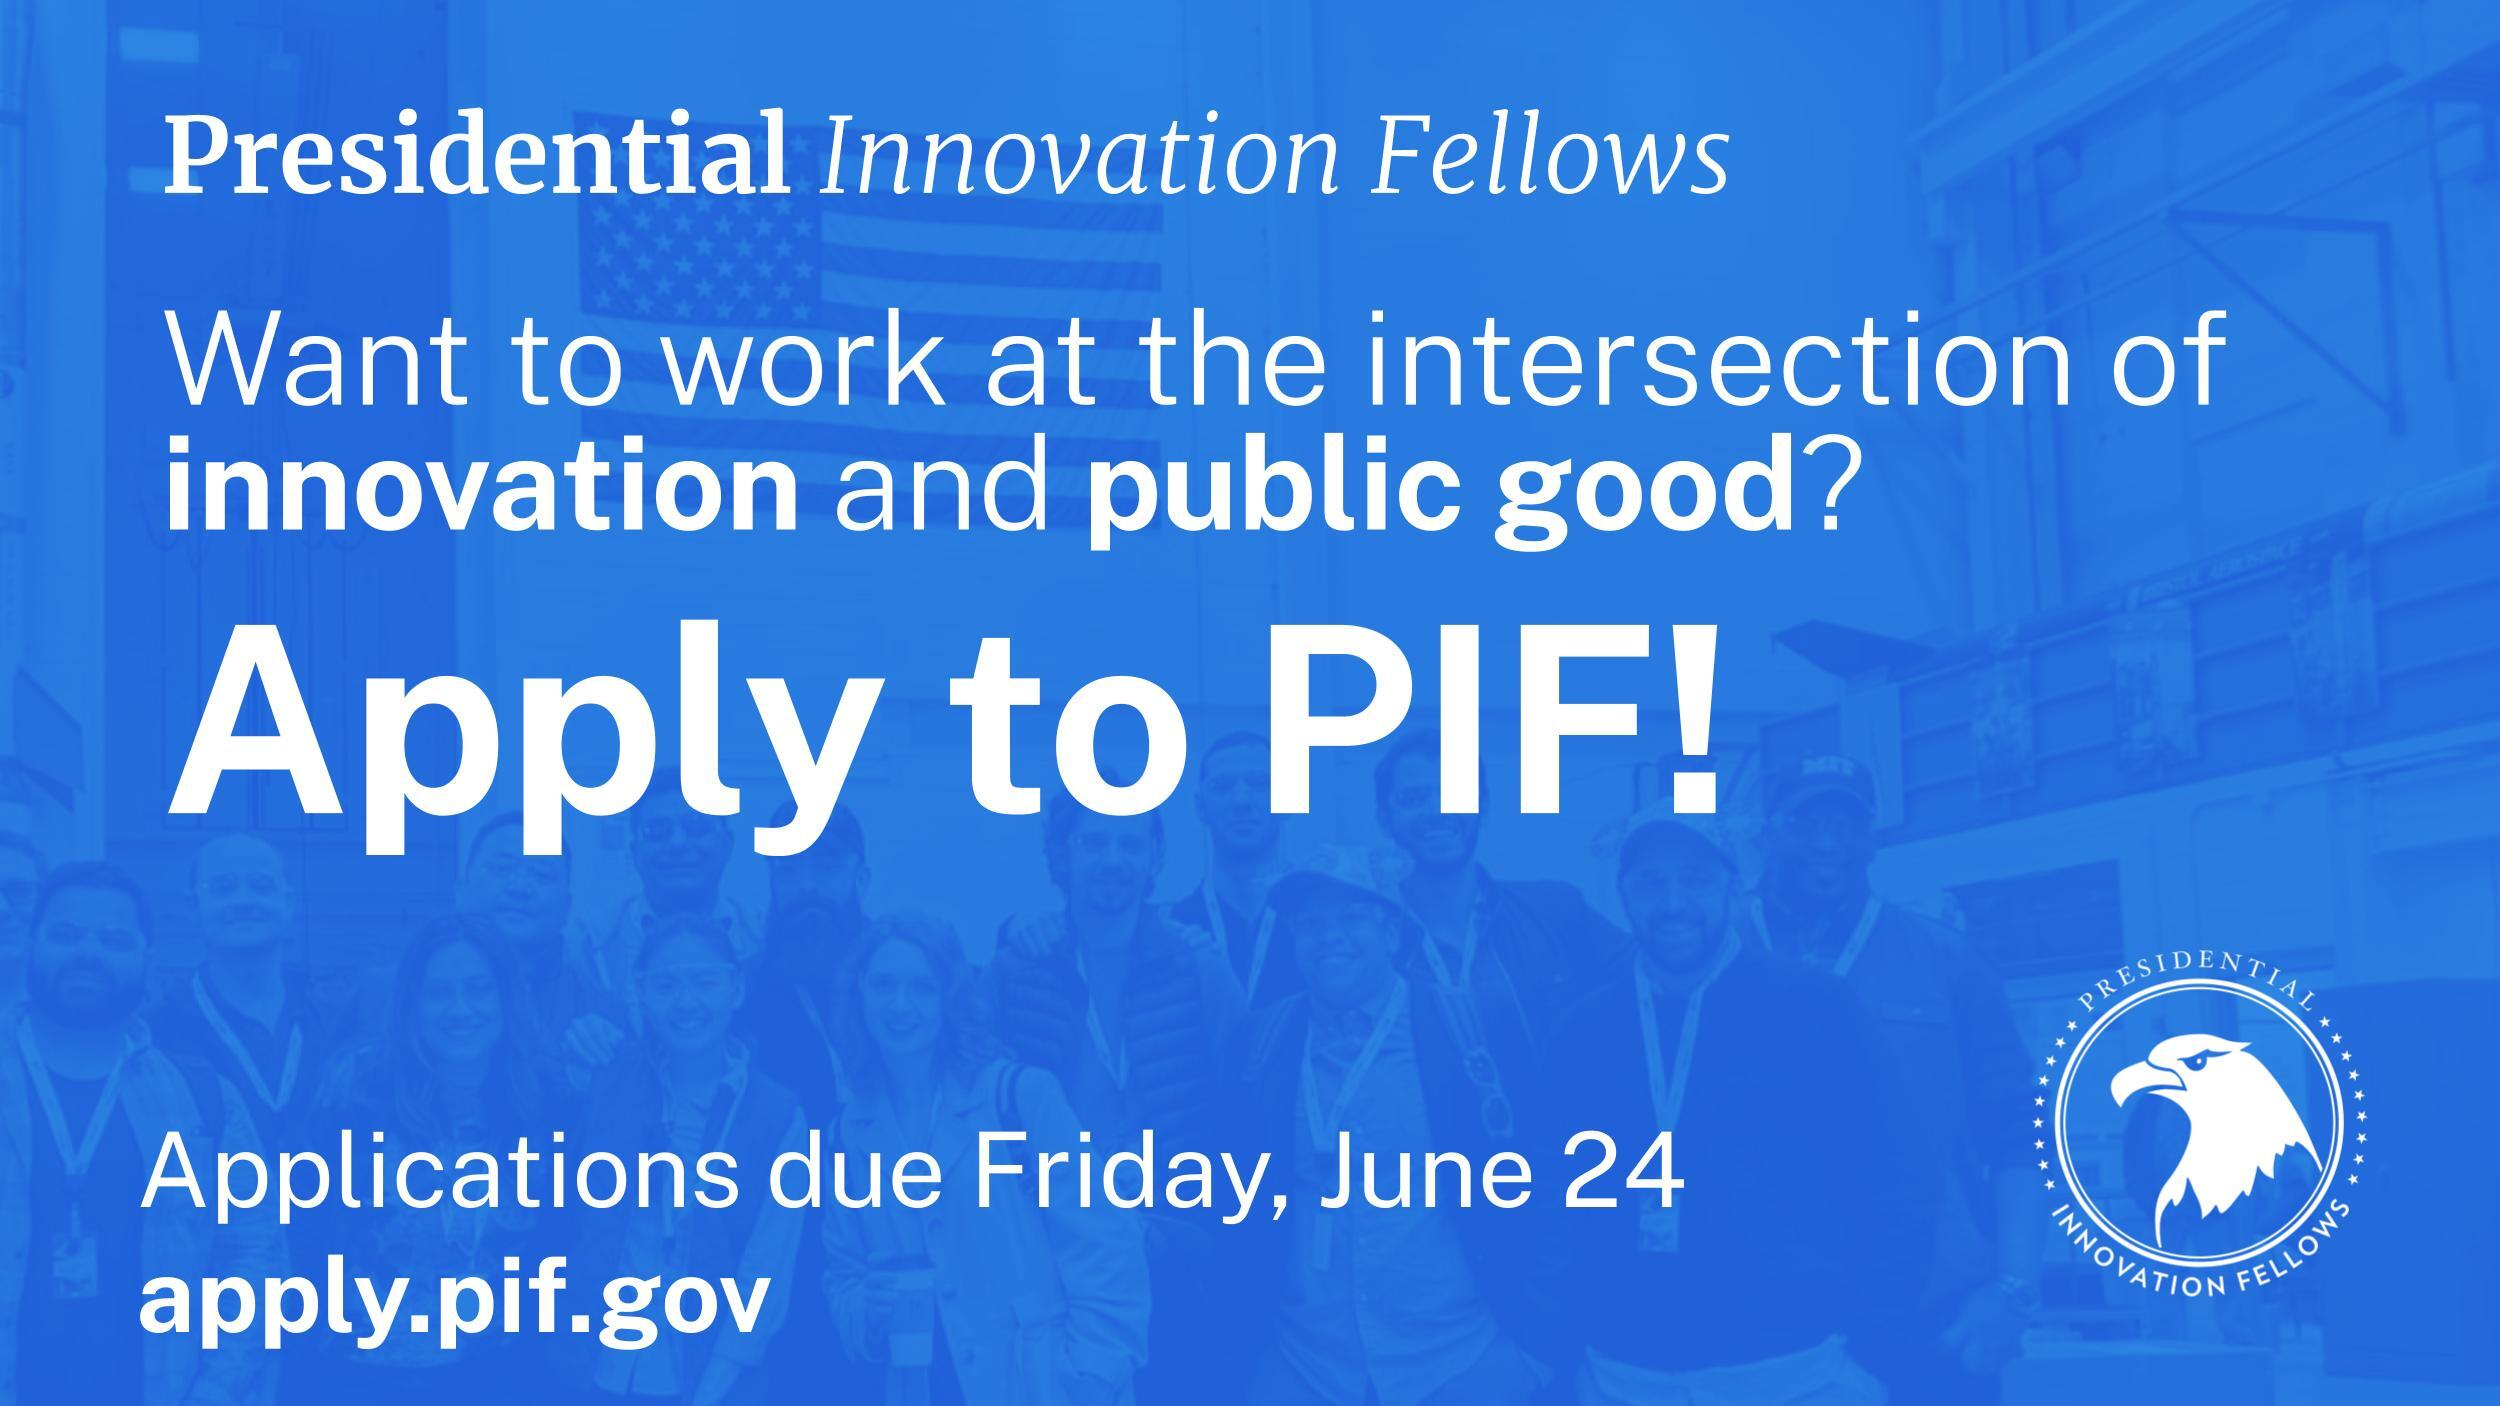
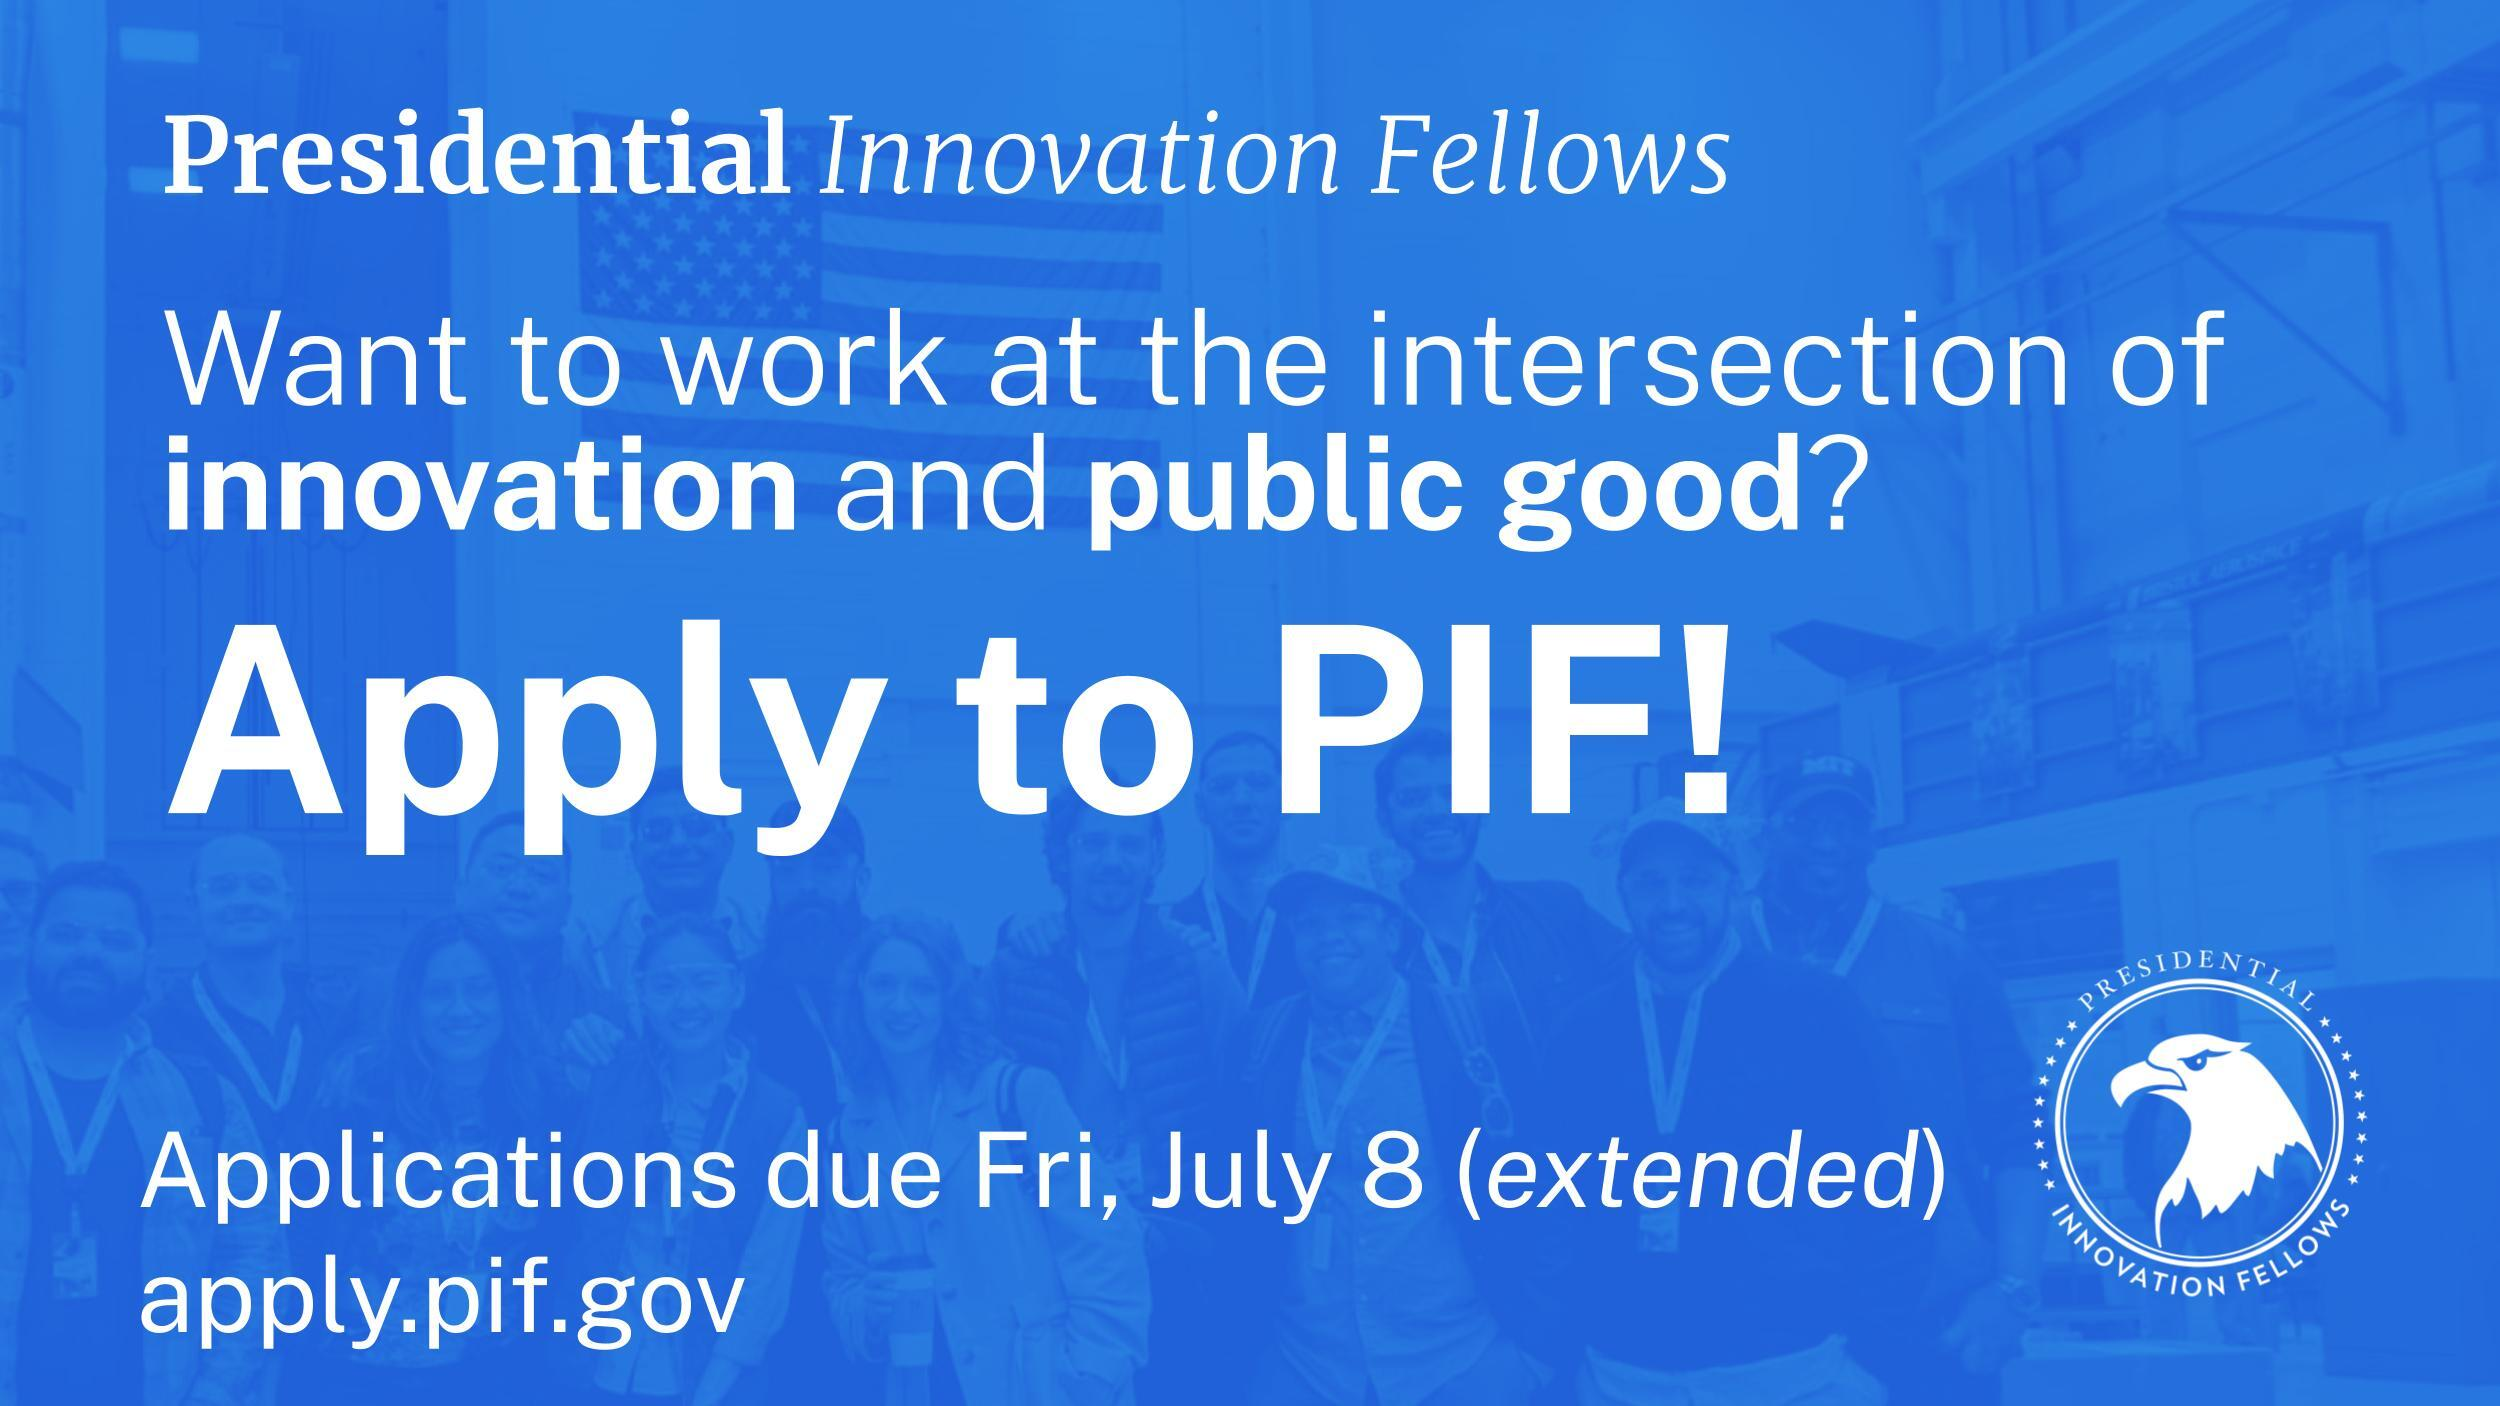
update application deadline to July 8 on website (#514)
* update application deadline to July 8 on website

* Update apply preview image

diff --git a/apply/index.html b/apply/index.html
@@ -40,7 +40,7 @@ description_apply: "Want to use your tech, design or entrepreneurial skills for 
       <div class="desktop:grid-col-8">
         <ul>
           <li><strong>Who may apply:</strong> All United States citizens and nationals (residents of American Samoa and Swains Island) are eligible to apply.</li>
-          <li><strong>Applications due:</strong> Friday June 24 2022, 11:59 PM Pacific Time</li>
+          <li><strong>Applications due:</strong> Friday July 8, 11:59 PM PST</li>
           <li><strong>How to apply:</strong> Complete <a href="https://docs.google.com/forms/d/e/1FAIpQLSfvcTc_cxzY3J8tcbkqXiXNogE6JJqbIh9esVuCOofolmKE9w/viewform" target="_blank"> our application form</a>, following all instructions.</li>
           <li><strong>Benefits:</strong> All PIFs receive <a href="https://handbook.tts.gsa.gov/benefits/" target="_blank"> federal employee benefits.</a> This includes medical, vision, and dental insurance, FSA accounts, life insurance, paid leave, and the Thrift Savings Plan (the government version of a 401K) with up to five percent matching.</li>
           <li><strong>Location:</strong> <strong>Washington, D.C.</strong> Presidential Innovation Fellows are based in Washington, D.C., for the duration of the fellowship. Fellows will spend a portion of their time working at one of the federal agencies to which they are assigned, which are often in Washington, D.C. or the surrounding area. Fellows occasionally co-work and collaborate on projects in space provided by the General Services Administration. In addition to onsite work at agencies, we believe that sharing a D.C. “home base” helps foster community.</li>
@@ -139,7 +139,7 @@ description_apply: "Want to use your tech, design or entrepreneurial skills for 
       <div class="desktop:grid-col-8">
         <p class="font-body-lg">We can’t wait to get to know you and your experience! Here is a <strong>tentative</strong> timeline so you can know what to expect, and when. Once you apply, you will receive confirmation that your application has been received. <strong>We are not able to provide updates on the status of your application until all fellows have been selected.</strong></p>
         <ul>
-          <li><strong>May 16 - June 24, 2022:</strong> <a href="https://docs.google.com/forms/d/e/1FAIpQLSfvcTc_cxzY3J8tcbkqXiXNogE6JJqbIh9esVuCOofolmKE9w/viewform" target="_blank">Submit your application</a>! We accept applications through 11:59 p.m. Pacific Time, June 24, 2022.</li>
+          <li><strong>May 16 - July 8, 2022:</strong> <a href="https://docs.google.com/forms/d/e/1FAIpQLSfvcTc_cxzY3J8tcbkqXiXNogE6JJqbIh9esVuCOofolmKE9w/viewform" target="_blank">Submit your application</a>! We accept applications through 11:59 p.m. Pacific Time, July 8, 2022.</li>
           <li><strong>July - August 2022:</strong> Our Talent Team, HR team, and subject matter experts review and qualify all applications and resumes.</li>
           <li><strong>August 2022 - January 2023:</strong> PIF interviews and Agency Interviews take place.</li>
           <li><strong>December 2022 - January 2023:</strong> Final selections and tentative offers* will be made.</li>

diff --git a/faq/index.html b/faq/index.html
@@ -97,7 +97,7 @@ permalink: /faq/
           </h3>
           <div id="accordion-1-4" class="usa-accordion__content usa-prose">
             <!-- <p>Applications are currently closed. We recruit annually and usually open applications late winter through early spring of each calendar year. Please visit <a href="https://apply.pif.gov">apply.pif.gov</a> for more information.</p> -->
-            <p>We recruit annually and for the April 2023 cohort, applications will be open May 16-June 24, 2022. Please visit <a href="https://apply.pif.gov">apply.pif.gov</a> for more information.</p>
+            <p>We recruit annually and for the April 2023 cohort, applications will be open May 16-July 8, 2022. Please visit <a href="https://apply.pif.gov">apply.pif.gov</a> for more information.</p>
           </div>
 
           <!-- Use the accurate heading level to maintain the document outline -->

diff --git a/apply/job-announcement.md b/apply/job-announcement.md
@@ -8,7 +8,7 @@ state: 'open'
 track_name: 'Presidential Innovation Fellow Job Announcement'
 role_name: Presidential Innovation Fellow
 opens: 'May 16, 2022'
-closes: 'June 24, 2022, 11:59pm Pacific Time'
+closes: 'July 8, 11:59 PM PST'
 location: 'Washington, DC'
 gs_level: 15
 salary_min: '148,484'
